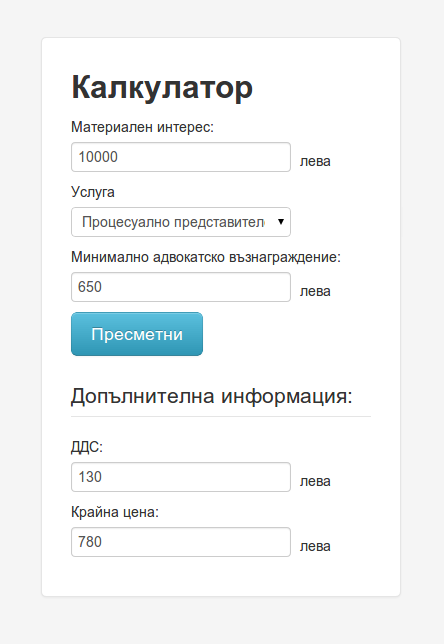
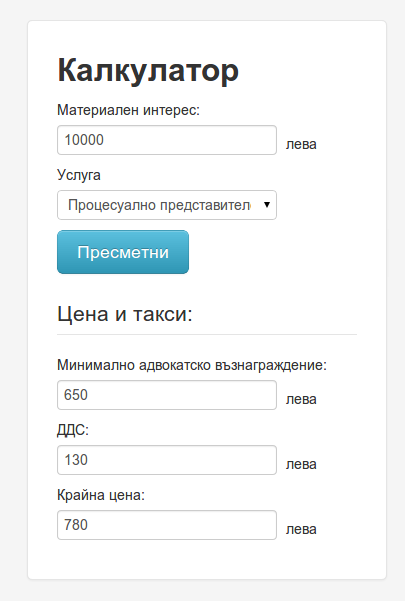
UI improvements

diff --git a/index.html b/index.html
@@ -22,15 +22,14 @@
 		  <option value='execProcess'>Процесуално представителство по изпълнителни дела</option>
 		</select>
 		<br>
-			<label for='output'>Минимално адвокатско възнаграждение:</label>
-			<input type='text' value='' name='output' class='input-block-level' id='value-output'>
-			<span class='value-input suffix'>лева</span>
-		<br>
 		<button id='input-button' class="btn btn-large btn-info" type="submit">Пресметни</button>
 		<br>
 		<br>
 		<fieldset>
-			<legend>Допълнителна информация:</legend>
+			<legend>Цена и такси:</legend>
+			<label for='output'>Минимално адвокатско възнаграждение:</label>
+			<input type='text' value='' name='output' class='input-block-level' id='value-output'>
+			<span class='value-input suffix'>лева</span>
 			<label for='vat'>ДДС:</label>
 			<input type='text' value='' name='vat' class='input-block-level' id='value-vat'>
 			<span class='value-input suffix'>лева</span>
